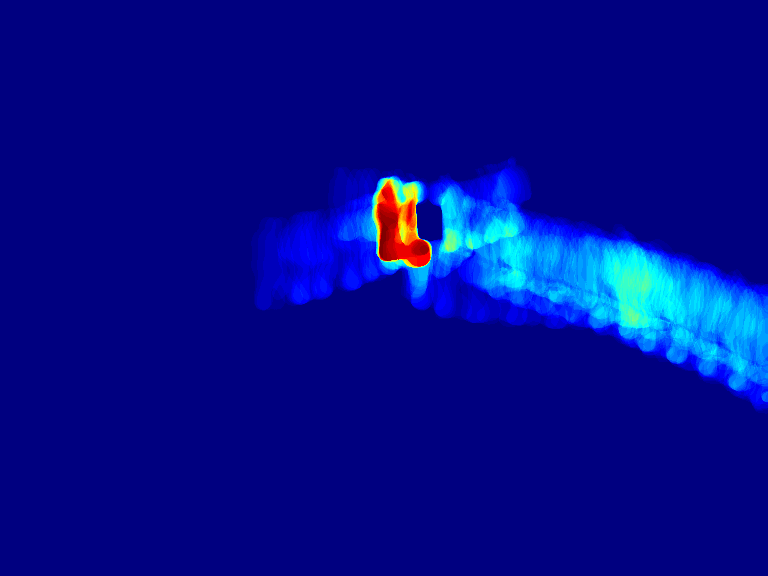
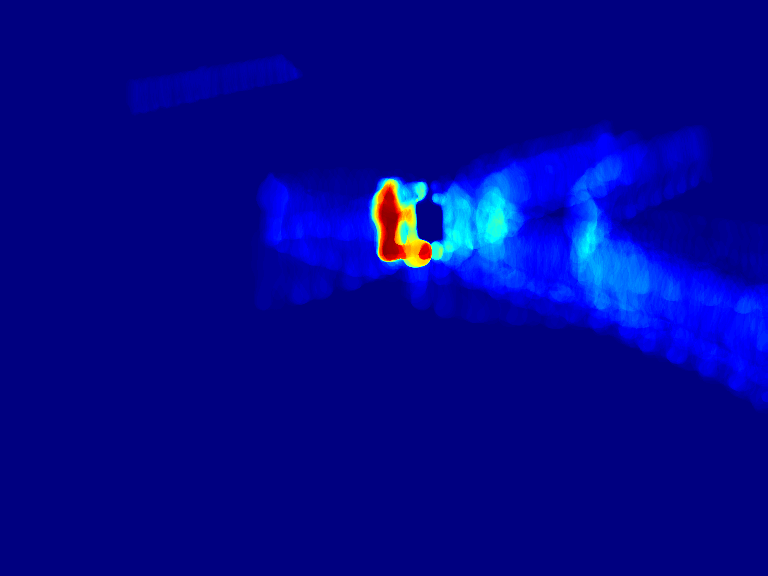
finish task1 doc

Changed region(s): [[0.3125, 0.2188, 1.0, 0.7188], [0.1562, 0.0938, 0.4062, 0.1875]]

diff --git a/Exercise03/task1.py b/Exercise03/task1.py
@@ -1,3 +1,5 @@
+from time import sleep
+
 import cv2
 import numpy as np
 import os
@@ -5,15 +7,14 @@ import os
 
 def main():
     # Input video (0 = webcam)
-    video_path = "./epic.mp4"
+    video_path = "./vtest.avi"
 
-    # Parameters
     bg_learning_frames = 30  # Number of frames to use for initial background model
     bg_learning_rate = 0.01  # Background update rate (0-1)
     motion_threshold = 25  # Threshold for motion detection
 
     # Create output directory if it doesn't exist
-    output_dir = "output"
+    output_dir = "img/task1"
     os.makedirs(output_dir, exist_ok=True)
 
     # Initialize video capture
@@ -22,10 +23,7 @@ def main():
         print('Unable to open video source')
         return
 
-    # Initialize variables
     frame_count = 0
-    background = None
-    heat_map = None
     frame_buffer = []
 
     print("First stage: collect frames for background initialization")
@@ -39,7 +37,7 @@ def main():
         frame_buffer.append(gray_frame)
         frame_count += 1
 
-    # Reset video and variables
+    # Reset video
     cap.set(cv2.CAP_PROP_POS_FRAMES, 0)
     frame_count = 0
 
@@ -53,7 +51,6 @@ def main():
 
     # Initialize heat map
     heat_map = np.zeros_like(frame_buffer[0], dtype=np.float32)
-
 
     print("Second stage: process video with the initialized background")
     while True:
@@ -75,14 +72,23 @@ def main():
         heat_map = heat_map + thresh.astype(np.float32) / 255.0
 
         # Update background model
-        # Check if the pixel is not part of a detected motion (to prevent assimilating moving objects)
-        mask = cv2.bitwise_not(thresh)
+        # Check if the pixel is not part of a detected motion (to prevent including moving objects)
+        mask = 255 - thresh # Invert
         if bg_learning_rate > 0:
             # Only update pixels that are not part of detected motion
             cv2.accumulateWeighted(gray_frame, background, bg_learning_rate, mask=mask)
 
         # Prepare visualization frames
         background_display = background.astype("uint8")
+
+        # Create mask overlay on original frame
+        overlay = frame.copy()
+        # Create a red mask where motion is detected
+        red_mask = np.zeros_like(frame)
+        red_mask[thresh == 255] = [0, 0, 255]  # BGR => red
+        # Add the red mask to the original frame with transparency
+        alpha = 0.5  # Transparency factor
+        mask_overlay = cv2.addWeighted(overlay, 1, red_mask, alpha, 0)
 
         # Normalize heat map for visualization
         if np.max(heat_map) > 0:
@@ -96,11 +102,11 @@ def main():
 
         heat_map_display = cv2.applyColorMap(normalized_heat_map, cv2.COLORMAP_JET)
 
-        # Show
         cv2.imshow("Original Frame", frame)
         cv2.imshow("Background Model", background_display)
         cv2.imshow("Binary Motion Mask", thresh)
         cv2.imshow("Heat Map", heat_map_display)
+        cv2.imshow("Mask Overlay", mask_overlay)
 
         frame_count += 1
 
@@ -109,8 +115,18 @@ def main():
         if key == ord('q'):
             break
 
-    heat_map_path = f"{output_dir}/{os.path.splitext(os.path.basename(video_path))[0]}_custom_heatmap.png"
+    # Save
+    original_path = f"{output_dir}/{os.path.splitext(os.path.basename(video_path))[0]}_original.jpg"
+    background_path = f"{output_dir}/{os.path.splitext(os.path.basename(video_path))[0]}_background.jpg"
+    thresh_path = f"{output_dir}/{os.path.splitext(os.path.basename(video_path))[0]}_threshold.jpg"
+    heat_map_path = f"{output_dir}/{os.path.splitext(os.path.basename(video_path))[0]}_heat_map.jpg"
+    mask_path = f"{output_dir}/{os.path.splitext(os.path.basename(video_path))[0]}_mask.jpg"
+
+    cv2.imwrite(original_path, frame)
+    cv2.imwrite(background_path, background_display)
+    cv2.imwrite(thresh_path, thresh)
     cv2.imwrite(heat_map_path, heat_map_display)
+    cv2.imwrite(mask_path, mask_overlay)
 
     # Clean up
     cap.release()

diff --git a/Exercise03/Readme.md b/Exercise03/Readme.md
@@ -5,8 +5,7 @@ background model.
 ## Stage 1 Background Model Creation
 - The algorithm collects the first 30 frames of the video
 - These frames are converted to grayscale and blurred to reduce noise
-- The background model is created by computing the pixel-by-pixel median across
-all collected frames
+- The background model is created by computing the median across all collected frames
 - This median-based approach ensures that moving objects appearing in
 some initial frames don't become part of the background
 
@@ -31,10 +30,15 @@ gausian blur to reduce noise sensitivity
 
 ## Sample
 
-![original.png](img/task1/original.png)
-![backgroundmodel.png](img/task1/backgroundmodel.png)
-![binary.png](img/task1/binary.png)
-![heatmap.png](img/task1/heatmap.png)
+Original
+![vtest_original.jpg](img/task1/vtest_original.jpg)
+Background
+![vtest_background.jpg](img/task1/vtest_background.jpg)
+Movement Map
+![vtest_threshold.jpg](img/task1/vtest_threshold.jpg)
+Overlay
+![vtest_mask.jpg](img/task1/vtest_mask.jpg)
+Heatmap
+![vtest_heat_map.jpg](img/task1/vtest_heat_map.jpg)
 
 ## Resulting Heatmap
-![vtest_custom_heatmap.png](output/vtest_custom_heatmap.png)
